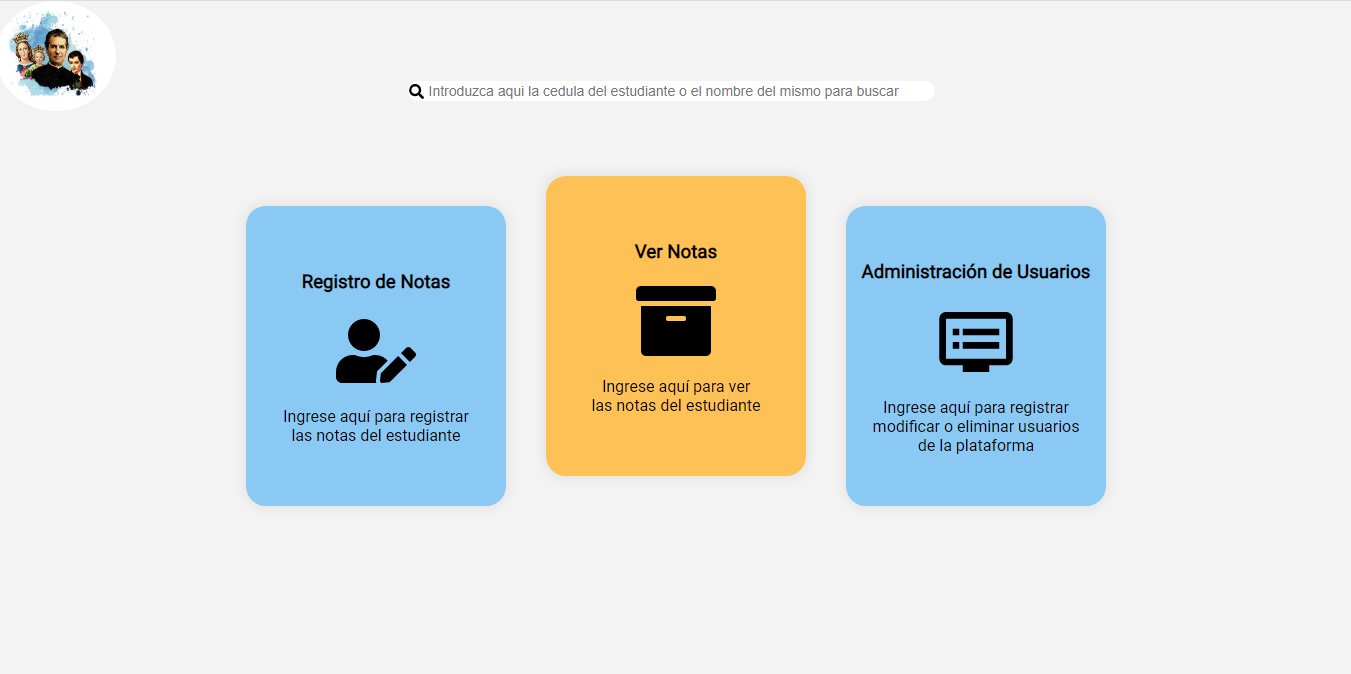
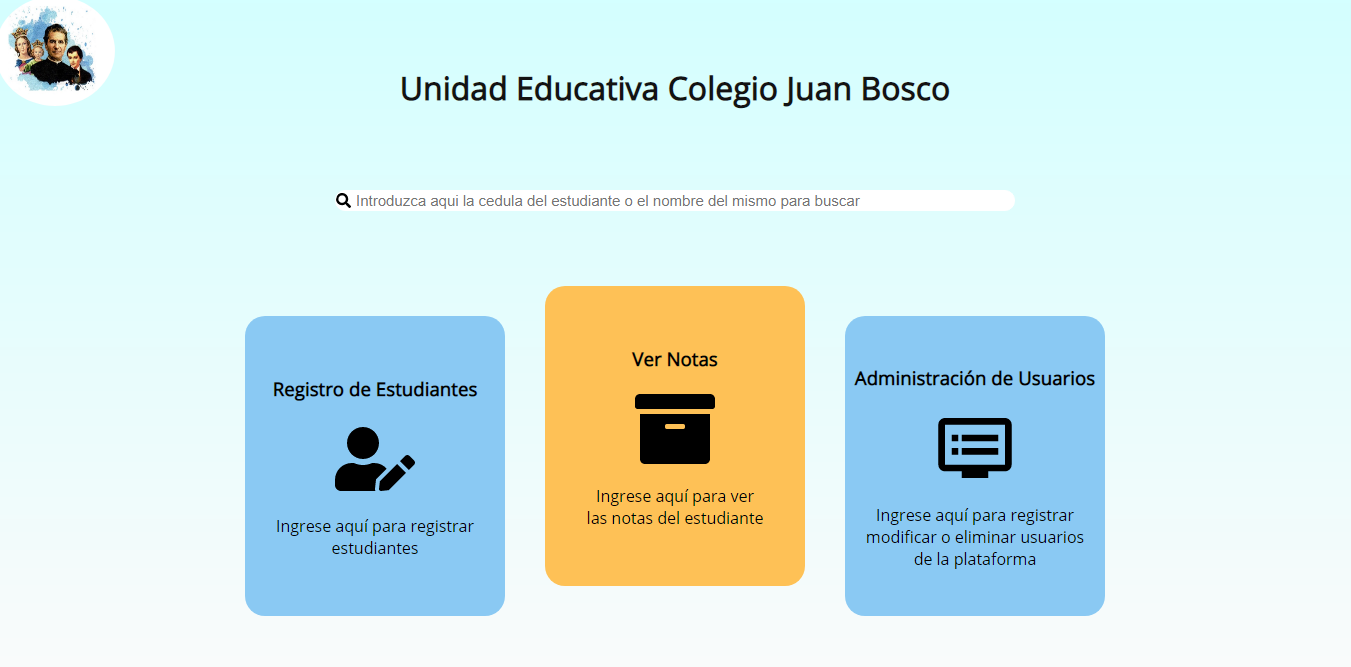
Cambio
+Añadido una alerta para notificar cuando un archivo CSV a sido añadido

diff --git a/regstudents.html b/regstudents.html
@@ -3,8 +3,10 @@
 <head>
   <meta charset="utf-8">
   <meta http-equiv="X-UA-Compatible" content="IE=edge">
-  <title></title>
+  <title>Registro de Estudiates</title>
+  <link rel="icon" href="src/juanboscologo.jpg">
   <link rel="stylesheet" href="css/style.css">
+  <script src="js/alerts.js"></script>
 </head>
 <body>
   <h1 class="title">Registro de Estudiantes</h1>
@@ -16,10 +18,10 @@
                 <input class="reg-input" type="text" id="ci" name="ci" placeholder="Cedula del Alumno" pattern="[VveE1234567890.-]{1,900}" autocomplete="off" required>
 
 
-                <input class="reg-input" type="text" id="nombres" name="nombres" pattern="[A-Za-záéíóúñ'´ ]{1,900}" placeholder="Nombre del Alumno" autocomplete="off" title="Solo Caracteres Alfabeticos!" required>
+                <input class="reg-input" type="text" id="nombres" name="nombres" pattern="[A-Za-záéíóúñ'´ ]{1,900}" placeholder="Nombre Completo del Alumno" autocomplete="off" title="Solo Caracteres Alfabeticos!" required>
 
 
-                <input class="reg-input" type="text" id="apellidos" name="apellidos" placeholder="Cedula de Identidad" pattern="[VveE1234567890.-]{1,900}" title="Solo caracteres numericos" autocomplete="off" required>
+                <input class="reg-input" type="text" id="apellidos" name="apellidos" placeholder="Apellido Completo del Alumno" pattern="[VveE1234567890.-]{1,900}" title="Solo caracteres numericos" autocomplete="off" required>
 
                 <label for="anio_actual">Curso Actual:</label>
                 <select name="anio_actual" id="anio_actual">
@@ -42,9 +44,11 @@
             <br>
 
             <div class="buttons">
-                <label for="file"> Subir CSV </label>
-                <input style="visibility:collapse; display: none;" type="file" id="file" name="file" id="file">
+                <label id="labelFile" for="file"> Subir CSV </label>
+                <input style="visibility:collapse; display: none;" type="file" id="file" accept=".csv" name="file">
                 <input type="submit" id="boton-confirmar" name="">
+                <br>
+                <p id="msj" style="text-align: center; display: none;"></p>
             </div>
         </form>
     </section>

diff --git a/index.html b/index.html
@@ -6,6 +6,7 @@
     <meta http-equiv="X-UA-Compatible" content="IE=edge">
     <meta name="viewport" content="width=device-width, user-scalable=no, initial-scale=1, maximum-scale=1, minimum-scale=1"/>
     <title>Base de datos</title>
+    <link rel="icon" href="src/juanboscologo.jpg">
     <link rel="stylesheet" href="css/style.css">
 </head>
 
@@ -15,11 +16,11 @@
         <img src="src/juanboscologo.jpg">
     </header><!-- /header -->
 
-    <h1 class="title">Base de Datos De la Unidad Educativa Colegio Juan Bosco</h1>
+    <h1 class="title">Unidad Educativa Colegio Juan Bosco</h1>
 
 <!-- Buscar Estudiantes-->
 <div class="bar-search">
-    <input type="text" name="caja_busqueda" id="caja_busqueda"  placeholder="Introduzca aqui la cedula del estudiante o el nombre del mismo para buscar"/>
+    <input type="search" name="caja_busqueda" id="caja_busqueda"  placeholder="Introduzca aqui la cedula del estudiante o el nombre del mismo para buscar"/>
 </div>
 <!-- Buscar Estudiantes-->
 

diff --git a/js/alerts.js b/js/alerts.js
@@ -1,0 +1,13 @@
+/*Alerta de Subir CSV*/
+function ready(){
+var file=document.getElementById("file");
+var msj=document.getElementById("msj");
+file.addEventListener("change",check,false);
+}
+
+const check = () =>{
+	msj.innerHTML="Archivo CSV Añadido";
+	msj.style.display="block";
+}
+
+window.addEventListener("load", ready, false);

diff --git a/consultarnotas.html b/consultarnotas.html
@@ -5,6 +5,7 @@
   <meta http-equiv="X-UA-Compatible" content="IE=edge">
   <meta name="viewport" content="width=device-width, user-scalable=no, initial-scale=1, maximum-scale=1, minimum-scale=1"/>
   <title></title>
+  <link rel="icon" href="src/juanboscologo.jpg">
   <link rel="stylesheet" href="css/style.css">
 </head>
 <body>

diff --git a/notes.html b/notes.html
@@ -5,6 +5,7 @@
   <meta http-equiv="X-UA-Compatible" content="IE=edge">
   <meta name="viewport" content="width=device-width, user-scalable=no, initial-scale=1, maximum-scale=1, minimum-scale=1"/>
   <title></title>
+  <link rel="icon" href="src/juanboscologo.jpg">
   <link rel="stylesheet" href="css/style.css">
 </head>
 <body>

diff --git a/css/forms.css b/css/forms.css
@@ -133,15 +133,13 @@ display: table;
 
 
   #boton-regresar:hover{
-    background-color:#FE565FFF;
-    border-color:#FE565FFF;
+    background-color:#f93232;
     transition: 1s;
 
   }
 
 
     #boton-regresar:active{
-     background-color: #FF4753FF;
      text-shadow: none;
      transition: 0.1s;
     }

diff --git a/adminusers.html b/adminusers.html
@@ -4,6 +4,7 @@
   <meta charset="utf-8">
   <meta http-equiv="X-UA-Compatible" content="IE=edge">
   <title>Administracion de Usuarios</title>
+  <link rel="icon" href="src/juanboscologo.jpg">
   <link rel="stylesheet" href="css/style.css">
 </head>
 <body>

diff --git a/login.html b/login.html
@@ -4,6 +4,7 @@
   <meta charset="utf-8">
   <meta http-equiv="X-UA-Compatible" content="IE=edge">
   <title>Login</title>
+  <link rel="icon" href="src/juanboscologo.jpg">
   <link rel="stylesheet" href="css/style.css">
 </head>
 <body>

diff --git a/css/style.css b/css/style.css
@@ -61,7 +61,8 @@ body{
 
 }
 
-    .bar-search input[type=text]{
+    .bar-search input[type=search]{
+      background-color: white;
       width: 100%;
       font-size: 15px;
       margin-right: 10px;
